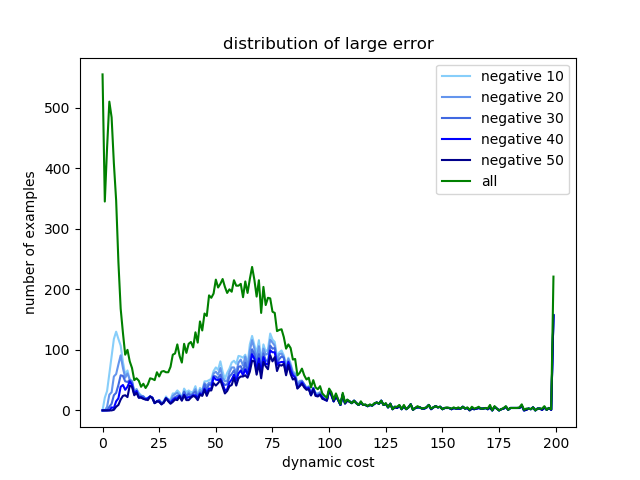
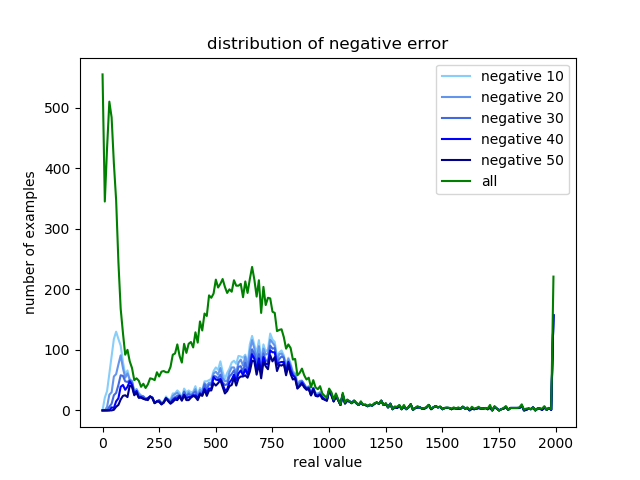
n

diff --git a/scripts/generate_ground_truth_p1p2_hybrid.py b/scripts/generate_ground_truth_p1p2_hybrid.py
@@ -1,0 +1,114 @@
+"""
+Generate data for model: (p1, p2) -> 25 percentile ddyn
+Data will be saved in a dict.
+example_id (string), 25 percentile ddyn (float)
+"""
+
+import pickle, IPython, os, math, shutil, getopt, sys
+import numpy as np
+
+from generate_depth_map import rotate_quadrilaterals, entire_depth_map
+
+GRID_RESOLUTION = 0.15
+ANGLE_RESOLUTION = 15.0
+PERCENTILE = 25
+# NUM_ENVIRONMENT_TYPE = 12
+NUM_ENVIRONMENT_PER_TYPE = 50
+DEPTH_MAP_RESOLUTION = 0.025
+
+
+def main():
+    environment_type = None
+    try:
+        inputs, _ = getopt.getopt(sys.argv[1:], "e:", ['environment_type'])
+
+        for opt, arg in inputs:
+            if opt == '-e':
+                environment_type = int(arg)
+
+    except getopt.GetoptError:
+        print('usage: -e: [environment_type]')
+        exit(1)
+
+    training = []
+    validation = []
+    test = []
+    p2_ddyn_dict = {}
+  
+    with open('/mnt/big_narstie_data/chenxi/data/medium_dataset_normal_wall/environments_' + str(environment_type), 'r') as env_file:
+        environments = pickle.load(env_file)
+        for environment_index in range(NUM_ENVIRONMENT_PER_TYPE):
+            if os.path.exists('/mnt/big_narstie_data/chenxi/data/medium_dataset_normal_wall/dynamic_cost_' + str(environment_type) + '_' + str(environment_index)):
+                print('process data in file dynamic_cost_{}_{}'.format(environment_type, environment_index))
+                ground_vertices = environments[environment_index]['ground_vertices']
+                others_vertices = environments[environment_index]['others_vertices']
+                with open('/mnt/big_narstie_data/chenxi/data/medium_dataset_normal_wall/dynamic_cost_' + str(environment_type) + '_' + str(environment_index), 'r') as file:
+                    data = pickle.load(file)
+                    p1_list = sorted(data.keys(), key=lambda element: (element[0], element[1], element[2]))
+                    for p1 in p1_list:
+                        depth_map_id = str(environment_type) + '_' + str(environment_index) + '_' + str(p1[0]) + str(p1[1]) + str(p1[2])
+                        ground_patch_coordinates = rotate_quadrilaterals(ground_vertices, p1[2] * ANGLE_RESOLUTION)
+                        ground_depth_map = entire_depth_map(ground_patch_coordinates, 'ground', DEPTH_MAP_RESOLUTION)
+                        with open('/mnt/big_narstie_data/chenxi/data/ground_truth_p1p2/ground_depth_maps/' + depth_map_id, 'w') as depth_map_file:
+                            pickle.dump(np.expand_dims(ground_depth_map, axis=0).astype(np.float32), depth_map_file)
+                        wall_patch_coordinates = rotate_quadrilaterals(others_vertices, p1[2] * ANGLE_RESOLUTION)
+                        wall_depth_map = entire_depth_map(wall_patch_coordinates, 'wall', DEPTH_MAP_RESOLUTION)
+                        with open('/mnt/big_narstie_data/chenxi/data/ground_truth_p1p2/wall_depth_maps/' + depth_map_id, 'w') as depth_map_file:
+                            pickle.dump(np.expand_dims(wall_depth_map, axis=0).astype(np.float32), depth_map_file)
+
+                        p2_list = sorted(data[p1].keys(), key=lambda element: (element[0], element[1], element[2]))
+                        for p2 in p2_list:
+                            example_id = depth_map_id + '_' + str(p2[0]) + str(p2[1]) + str(p2[2])
+                            if environment_index < 40:
+                                training.append(example_id)
+                            elif environment_index < 45:
+                                validation.append(example_id)
+                            else:
+                                test.append(example_id)
+                            p2_ddyn_dict[example_id] = (depth_map_id, np.array(p2).astype(np.float32), np.percentile(data[p1][p2][:,6], PERCENTILE).astype(np.float32))
+            elif os.path.exists('/mnt/big_narstie_data/chenxi/data/medium_dataset_normal_wall/dynamic_cost_plus_type_' + str(environment_type) + '_' + str(environment_index)):
+                print('process data in file dynamic_cost_plus_type_{}_{}'.format(environment_type, environment_index))
+                ground_vertices = environments[environment_index]['ground_vertices']
+                others_vertices = environments[environment_index]['others_vertices']
+                with open('/mnt/big_narstie_data/chenxi/data/medium_dataset_normal_wall/dynamic_cost_plus_type_' + str(environment_type) + '_' + str(environment_index), 'r') as file:
+                    data = pickle.load(file)
+                    p1_list = sorted(data.keys(), key=lambda element: (element[0], element[1], element[2]))
+                    for p1 in p1_list:
+                        depth_map_id = str(environment_type) + '_' + str(environment_index) + '_' + str(p1[0]) + str(p1[1]) + str(p1[2])
+                        ground_patch_coordinates = rotate_quadrilaterals(ground_vertices, p1[2] * ANGLE_RESOLUTION)
+                        ground_depth_map = entire_depth_map(ground_patch_coordinates, 'ground', DEPTH_MAP_RESOLUTION)
+                        with open('/mnt/big_narstie_data/chenxi/data/ground_truth_p1p2/ground_depth_maps/' + depth_map_id, 'w') as depth_map_file:
+                            pickle.dump(np.expand_dims(ground_depth_map, axis=0).astype(np.float32), depth_map_file)
+                        wall_patch_coordinates = rotate_quadrilaterals(others_vertices, p1[2] * ANGLE_RESOLUTION)
+                        wall_depth_map = entire_depth_map(wall_patch_coordinates, 'wall', DEPTH_MAP_RESOLUTION)
+                        with open('/mnt/big_narstie_data/chenxi/data/ground_truth_p1p2/wall_depth_maps/' + depth_map_id, 'w') as depth_map_file:
+                            pickle.dump(np.expand_dims(wall_depth_map, axis=0).astype(np.float32), depth_map_file)
+
+                        p2_list = sorted(data[p1].keys(), key=lambda element: (element[0], element[1], element[2]))
+                        for p2 in p2_list:
+                            example_id = depth_map_id + '_' + str(p2[0]) + str(p2[1]) + str(p2[2])  
+                            if environment_index < 16:
+                                training.append(example_id)
+                            elif environment_index < 18:
+                                validation.append(example_id)
+                            else:
+                                test.append(example_id)
+
+                            ddyn_list = []
+                            for transition_type in data[p1][p2]:
+                                ddyn_list += data[p1][p2][transition_type][:,6].tolist()
+                            p2_ddyn_dict[example_id] = (depth_map_id, np.array(p2).astype(np.float32), np.percentile(np.array(ddyn_list), PERCENTILE).astype(np.float32))
+    
+    with open('/mnt/big_narstie_data/chenxi/data/ground_truth_p1p2/p2_ddyn_' + str(environment_type), 'w') as file:
+        pickle.dump(p2_ddyn_dict, file)
+
+    partition = {'training': training,
+                 'validation': validation,
+                 'test': test}
+    with open('/mnt/big_narstie_data/chenxi/data/ground_truth_p1p2/partition_' + str(environment_type), 'w') as file:
+        pickle.dump(partition, file)
+     
+
+if __name__ == '__main__':
+    main()
+

diff --git a/scripts/combine_ddyn_subset.py b/scripts/combine_ddyn_subset.py
@@ -1,0 +1,32 @@
+import pickle, os, IPython
+import numpy as np
+
+
+def main():
+    p2_ddyn = {}
+    for environment_type in range(3):
+        with open('../data/ground_truth_p1p2/p2_ddyn_' + str(environment_type), 'r') as file:
+            data = pickle.load(file)
+            p2_ddyn.update(data)
+
+    partition = {'training': [],
+                 'validation': [],
+                 'test': []}
+    for environment_type in range(3):
+        with open('../data/ground_truth_p1p2/partition_' + str(environment_type), 'r') as file:
+            data = pickle.load(file)
+            partition['training'] += data['training']
+            partition['validation'] += data['validation']
+            partition['test'] += data['test']
+
+    assert(len(p2_ddyn.keys()) == len(partition['training']) + len(partition['validation']) + len(partition['test']))
+    # IPython.embed()
+    with open('../data/ground_truth_p1p2/p2_ddyn_no_wall_subset', 'w') as file:
+        pickle.dump(p2_ddyn, file)
+
+    with open('../data/ground_truth_p1p2/partition_no_wall_subset', 'w') as file:
+        pickle.dump(partition, file)
+
+
+if __name__ == '__main__':
+    main()

diff --git a/scripts/check_custom_loss.py b/scripts/check_custom_loss.py
@@ -1,0 +1,28 @@
+import os, pickle, shutil, IPython
+import numpy as np
+import matplotlib.pyplot as plt
+
+def Weighted_Loss(Input, Target):
+    loss = Input - Target
+    return (3 - (-1)*np.sign(loss)) * 1.0 / 2 * (7 / (1 + 0.01 * Target)) * np.abs(loss)
+
+def main():
+    Target = np.arange(2000)
+    plt.plot(range(2000), Weighted_Loss(Target + 20, Target), '-', label='predicted - real = 20', color='red')
+    plt.plot(range(2000), Weighted_Loss(Target + 10, Target), '-', label='predicted - real = 10', color='pink')
+
+    plt.plot(range(2000), Weighted_Loss(Target - 10, Target), '-', label='predicted - real = -10', color='lightskyblue')
+    plt.plot(range(2000), Weighted_Loss(Target - 20, Target), '-', label='predicted - real = -20', color='blue')
+    
+    
+    plt.title('Weighted Loss')
+    plt.xlabel('real value')
+    plt.ylabel('weighted loss')
+    plt.legend()
+    plt.savefig('custom loss.png')
+
+
+
+
+if __name__ == "__main__":
+    main()

diff --git a/scripts/compute_ddyn_plus_type.py b/scripts/compute_ddyn_plus_type.py
@@ -185,7 +185,7 @@ def main():
 
     for idx, transition in enumerate(transitions):
         environment_index = transition['environment_index']
-        # if environment_index < 28:
+        # if environment_index < 43:
         #     continue
         # if environment_index > 5:
         #     break

diff --git a/scripts/neural_network/p1p2/analyze_error_4.py b/scripts/neural_network/p1p2/analyze_error_4.py
@@ -110,7 +110,7 @@ def main():
     plt.xlabel('real value')
     plt.ylabel('number of examples')
     plt.legend()
-    plt.savefig('loss.png')
+    plt.savefig('negative.png')
     
 
 
